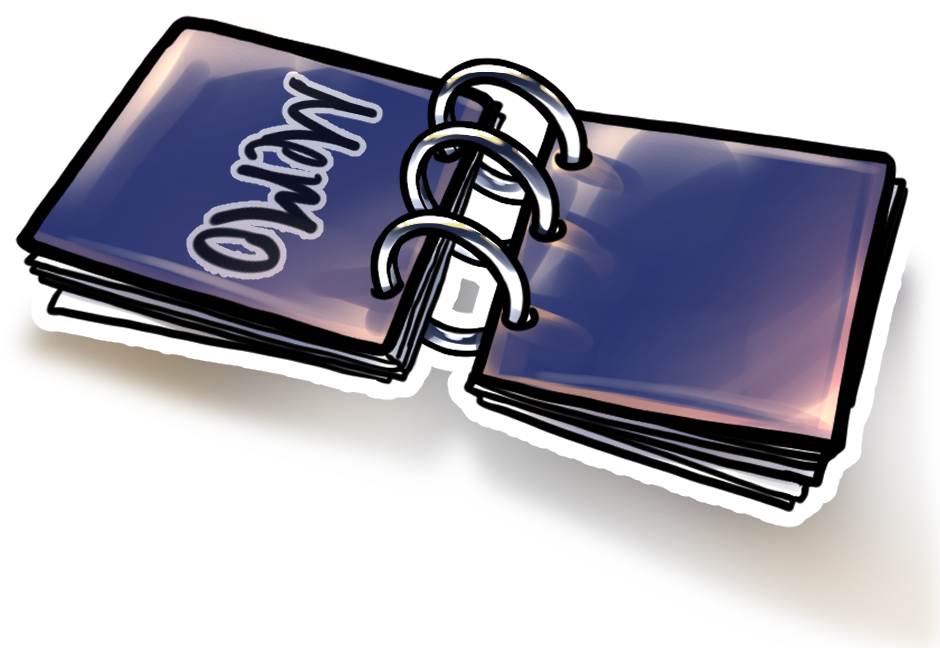
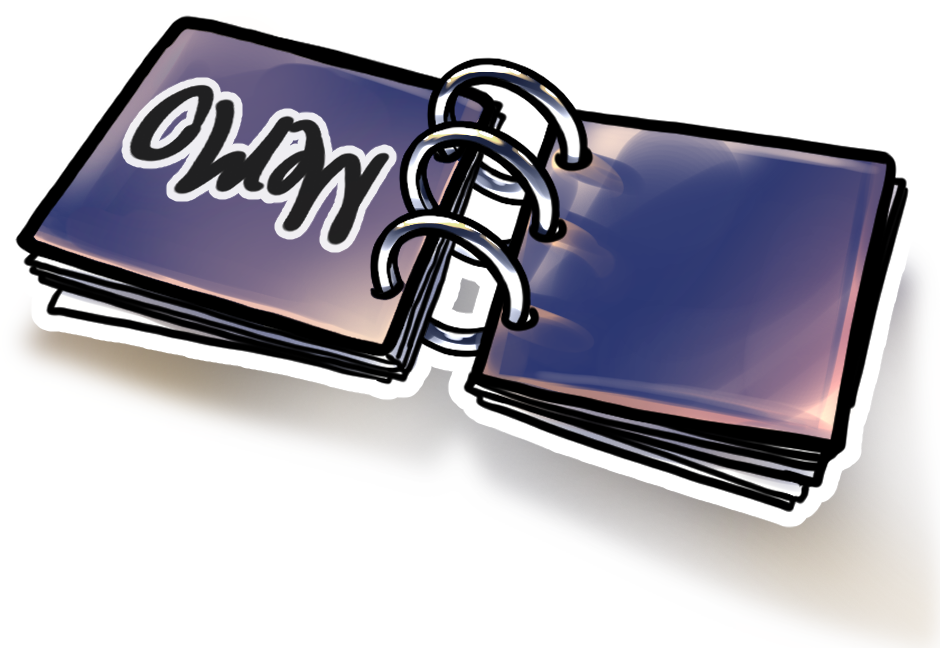
Save Dictionary, Follow Memo&Art
eventObjectsStatusDict를 추가로 저장
미행에서 이동 중에 메모장을 오픈할 경우, 움직임을 멈추고 메모장을 닫으면 다시 이동하도록 변경
미행 파트에서 추가된 아트 리소스 적용

Changed region(s): [[0.0309, 0.0309, 0.4936, 0.5247]]

diff --git a/Assets/1. Scripts/Managers/SaveManager.cs b/Assets/1. Scripts/Managers/SaveManager.cs
@@ -35,7 +35,7 @@ public class SaveManager : MonoBehaviour
     }
     public void SaveInitGameData()
     {
-        initData = new SaveData(SceneType.START, 1, GameManager.Instance.Variables, MemoManager.Instance.SavedMemoList, MemoManager.Instance.RevealedMemoList);
+        initData = new SaveData(SceneType.START, 1, GameManager.Instance.Variables, GameManager.Instance.eventObjectsStatusDict, MemoManager.Instance.SavedMemoList, MemoManager.Instance.RevealedMemoList);
 
         if (EndingData == null) return;
         GameManager.Instance.SetVariable("EndingCollect", EndingData.allEndingCollectCount);
@@ -80,6 +80,7 @@ public class SaveManager : MonoBehaviour
         // 저장된 내용 로드
         SceneManager.Instance.roomSideIndex = data.lastSideIndex;
         GameManager.Instance.Variables = data.Variables;
+        GameManager.Instance.eventObjectsStatusDict = data.EventObjectStatusDictionary;
         MemoManager.Instance.SavedMemoList = data.SavedMemoList;
         MemoManager.Instance.RevealedMemoList = data.RevealedMemoList;
 
@@ -97,6 +98,7 @@ public class SaveManager : MonoBehaviour
         data = new(SceneManager.Instance.CurrentScene,
             currentSideIndex,
             GameManager.Instance.Variables,
+            GameManager.Instance.eventObjectsStatusDict,
             MemoManager.Instance.SavedMemoList,
             MemoManager.Instance.RevealedMemoList);
 
@@ -126,18 +128,21 @@ public class SaveData
     public int lastSideIndex;
 
     public string variablesToJson;
+    public string eventObjectStatusToJson;
     public string savedMemo;
     public string revealedMemo;
 
     public Dictionary<string, object> Variables => ToDictionary(variablesToJson); // 게임 매니저의 변수들
+    public Dictionary<string, bool> EventObjectStatusDictionary => ToBoolDictionary(eventObjectStatusToJson); // 게임 매니저의 변수들
     public List<List<string[]>> SavedMemoList => ToArrayList(savedMemo);
     public List<List<string>> RevealedMemoList => ToList(revealedMemo);
 
-    public SaveData(SceneType type, int currentSideIndex, Dictionary<string, object> variables, List<List<string[]>> savedMemoList, List<List<string>> revealedMemoList)
+    public SaveData(SceneType type, int currentSideIndex, Dictionary<string, object> variables, Dictionary<string, bool>  eventObejctStatusDictionary, List<List<string[]>> savedMemoList, List<List<string>> revealedMemoList)
     {
         sceneType = type;
         lastSideIndex = currentSideIndex;
         variablesToJson = ToJson(variables);
+        eventObjectStatusToJson = ToJson(eventObejctStatusDictionary);
         savedMemo = ToJson(savedMemoList);
         revealedMemo = ToJson(revealedMemoList);
     }
@@ -171,6 +176,10 @@ public class SaveData
             stringVariables.Add(key, stringValue);
         }
         return JsonConvert.SerializeObject(stringVariables, Formatting.Indented);
+    }
+    private string ToJson(Dictionary<string, bool> dictionary)
+    {
+        return JsonConvert.SerializeObject(dictionary, Formatting.Indented);
     }
     private string ToJson(List<List<string[]>> array)
     {
@@ -216,6 +225,10 @@ public class SaveData
         }
 
         return objectVariables;
+    }
+    private Dictionary<string, bool> ToBoolDictionary(string json)
+    {
+        return JsonConvert.DeserializeObject<Dictionary<string, bool>>(json); ;
     }
 }
 public class EndingData

diff --git a/Assets/1. Scripts/Tailing/Follow/FollowManager.cs b/Assets/1. Scripts/Tailing/Follow/FollowManager.cs
@@ -32,16 +32,17 @@ public class FollowManager : MonoBehaviour
     public bool isTutorial = false; // 튜토리얼 중인지 아닌지
     public bool isEnd = false; // 현재 미행이 끝났는지 아닌지
     public bool canClick = true; // 현재 오브젝트를 누를 수 있는지
-    private bool onMove; // 원래 이동 상태였는지
+    public bool onMove; // 원래 이동 상태였는지
 
     void Awake()
     {
         if (Instance == null) Instance = this;
         else Destroy(gameObject);
 
+        return;
+
         if (SceneManager.Instance.CurrentScene == SceneType.FOLLOW_1) StartCoroutine(followTutorial.StartTutorial());
-        extraNextButton.GetComponent<Button>().onClick.AddListener(()
-            => DialogueManager.Instance.OnDialoguePanelClick());
+        extraNextButton.GetComponent<Button>().onClick.AddListener(() => DialogueManager.Instance.OnDialoguePanelClick());
     }
 
     public void ClickObject()

diff --git a/Assets/1. Scripts/Managers/DialogueManager.cs b/Assets/1. Scripts/Managers/DialogueManager.cs
@@ -242,14 +242,14 @@ public class DialogueManager : MonoBehaviour
 
             return;
         }
-        
+
+        MemoManager.Instance.SetMemoButtons(true);
+
+        if (!RoomManager.Instance) return;
+
         var refillHeartsOrEndDay = (bool)GameManager.Instance.GetVariable("RefillHeartsOrEndDay");
         if (refillHeartsOrEndDay) GameManager.Instance.RefillHeartsOrEndDay();
 
-        MemoManager.Instance.SetMemoButtons(true);
-        
-        if (!RoomManager.Instance) return;
-        
         // 튜토리얼 중 다른 곳 클릭하면 나오는 강조 이미지가 해당 "ㅁㅁ를 조사해보자" 스크립트 다 끝나면 자동으로 강조 이미지 꺼지게 함.
         if ((bool)GameManager.Instance.GetVariable("isTutorial") && RoomManager.Instance.imageAndLockPanelManager.GetIsTutorialObjectActive())
         {

diff --git a/Assets/1. Scripts/Managers/MemoManager.cs b/Assets/1. Scripts/Managers/MemoManager.cs
@@ -100,6 +100,8 @@ public class MemoManager : PageContentsManager
     public void OnExit()
     {
         SetMemoContents(false);
+
+        if (FollowManager.Instance && FollowManager.Instance.onMove) FollowManager.Instance.followAnim.ChangeAnimStatus();
     }
 
     // 현재 씬에 따라 메모의 개수를 파악 -> 현재 씬에 해당하는 메모의 개수에 따라 엔딩 선택지 해금 여부 결정

diff --git a/Assets/1. Scripts/Managers/GameManager.cs b/Assets/1. Scripts/Managers/GameManager.cs
@@ -44,7 +44,7 @@ public class GameManager : MonoBehaviour
     private bool isEatenEnergySupplement = false;
 
     // 중복조사 관련 딕셔너리
-    private Dictionary<string, bool> eventObjectsStatusDict = new Dictionary<string, bool>();
+    public Dictionary<string, bool> eventObjectsStatusDict = new Dictionary<string, bool>();
 
     public void SetCurrentInquiryObjectId(string objectId)
     {

diff --git a/Assets/1. Scripts/MemoButton.cs b/Assets/1. Scripts/MemoButton.cs
@@ -7,5 +7,11 @@ public class MemoButton : MonoBehaviour
     public void OnMouseDown()
     {
         MemoManager.Instance.SetMemoContents(true);
+
+        if (FollowManager.Instance && !FollowManager.Instance.followAnim.IsStop)
+        {
+            FollowManager.Instance.onMove = true;
+            FollowManager.Instance.followAnim.ChangeAnimStatus();
+        }
     }
 }
